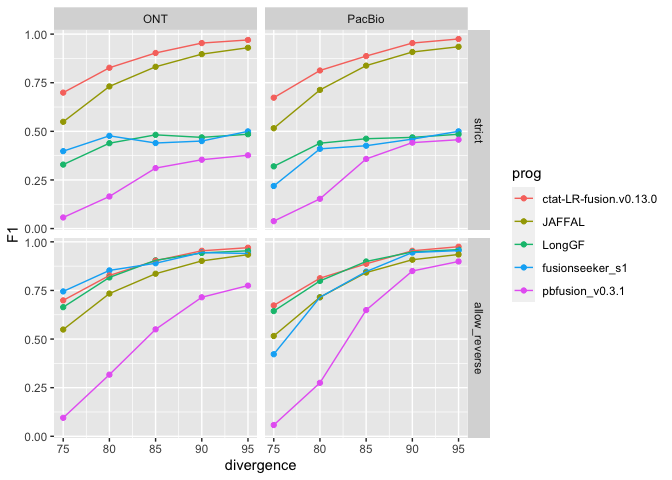
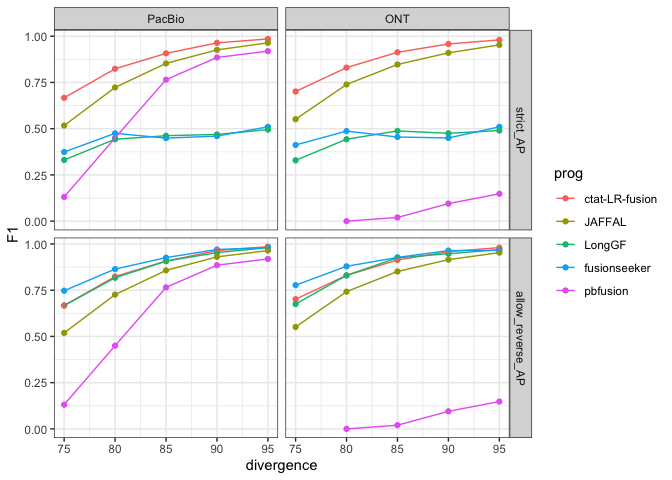
consistent coloring of progs

diff --git a/1.Benchmark_Simulated_Fusions/1a.jaffalpaper_simulated_reads/analyze_jaffal_simdata_accuracy.md b/1.Benchmark_Simulated_Fusions/1a.jaffalpaper_simulated_reads/analyze_jaffal_simdata_accuracy.md
@@ -10,6 +10,10 @@ Analysis was performed here:
 
 Results are analyzed below:
 
+``` r
+ordered_progs = c('ctat-LR-fusion', 'JAFFAL', 'LongGF', 'fusionseeker', 'pbfusion')
+```
+
 # Examine peak F1
 
 ``` r
@@ -27,13 +31,9 @@ ROC_data = bind_rows(ROC_strict_results,
                      ROC_allow_reverse_results)
 
 
-ROC_data = ROC_data %>% filter(prog %in% c(
-                                   'pbfusion',
-                                   'fusionseeker',
-                                   'LongGF',
-                                   'JAFFAL',
-                                   'ctat-LR-fusion')
-                       )
+ROC_data = ROC_data %>% filter(prog %in% ordered_progs)
+
+ROC_data$prog = factor(ROC_data$prog, levels=ordered_progs)
 
 
 # write supplementary data file
@@ -50,7 +50,7 @@ max_F1_data = ROC_data %>% group_by(analysisType, prog, seqtype, divergence) %>%
 
 ranked_progs = max_F1_data  %>% group_by(prog) %>% summarize(mean_F1 = mean(F1)) %>% arrange(desc(mean_F1))
 
-max_F1_data$prog = factor(max_F1_data$prog, levels=ranked_progs$prog)
+#max_F1_data$prog = factor(max_F1_data$prog, levels=ranked_progs$prog)
 
 max_F1_data$analysisType = factor(max_F1_data$analysisType, levels=c('strict_AP', 'allow_reverse_AP'))
 
@@ -72,7 +72,7 @@ p_F1_linepoint = max_F1_data %>%
 p_F1_linepoint
 ```
 
-![](analyze_jaffal_simdata_accuracy_files/figure-gfm/unnamed-chunk-2-1.png)<!-- -->
+![](analyze_jaffal_simdata_accuracy_files/figure-gfm/unnamed-chunk-3-1.png)<!-- -->
 
 ``` r
 ggsave(p_F1_linepoint, filename="jaffal_simdata_accuracy.F1.paperfig.svg", width=8, height=7)
@@ -95,7 +95,7 @@ ROC_data %>% filter(analysisType == "allow_reverse_AP") %>%
     ## Warning in geom_line(aes(groups = prog, color = prog)): Ignoring unknown
     ## aesthetics: groups
 
-![](analyze_jaffal_simdata_accuracy_files/figure-gfm/unnamed-chunk-4-1.png)<!-- -->
+![](analyze_jaffal_simdata_accuracy_files/figure-gfm/unnamed-chunk-5-1.png)<!-- -->
 
 ``` r
 max_F1_data %>% 
@@ -141,7 +141,7 @@ max_F1_data %>%
     facet_grid(vars(TP_or_FP), vars(seqtype))
 ```
 
-![](analyze_jaffal_simdata_accuracy_files/figure-gfm/unnamed-chunk-6-1.png)<!-- -->
+![](analyze_jaffal_simdata_accuracy_files/figure-gfm/unnamed-chunk-7-1.png)<!-- -->
 
 ``` r
 max_F1_data %>% 
@@ -156,10 +156,10 @@ max_F1_data %>%
     facet_wrap(~seqtype)
 ```
 
-![](analyze_jaffal_simdata_accuracy_files/figure-gfm/unnamed-chunk-7-1.png)<!-- -->
+![](analyze_jaffal_simdata_accuracy_files/figure-gfm/unnamed-chunk-8-1.png)<!-- -->
 
 ``` r
-max_F1_data %>% 
+TPR_or_FPR_plot = max_F1_data %>% 
     filter(analysisType == "allow_reverse_AP") %>%
     mutate(FPR = 1 - PPV) %>%
     select(seqtype, divergence, prog, TPR, FPR) %>% 
@@ -169,10 +169,16 @@ max_F1_data %>%
     ggplot(aes(x=divergence, y=fusion_count)) + theme_bw() +
     geom_point(aes(color=prog, shape=TPR_or_FPR), size=rel(3)) + 
     geom_line(aes(group=prog_TPR_or_FPR, color=prog)) +
-    facet_wrap(~seqtype)
+    facet_wrap(~seqtype) + ylab('TPR or FPR') + xlab("Fusion Reads % Identity")
+
+TPR_or_FPR_plot
 ```
 
-![](analyze_jaffal_simdata_accuracy_files/figure-gfm/unnamed-chunk-8-1.png)<!-- -->
+![](analyze_jaffal_simdata_accuracy_files/figure-gfm/unnamed-chunk-9-1.png)<!-- -->
+
+``` r
+ggsave(TPR_or_FPR_plot, filename="jaffal_simdata_accuracy.TPR_or_FPR_plot.paperfig.svg", width=8, height=4)
+```
 
 ``` r
 ROC_data %>% filter(analysisType == "allow_reverse_AP") %>% 
@@ -189,7 +195,7 @@ ROC_data %>% filter(analysisType == "allow_reverse_AP") %>%
     ## Warning in geom_line(aes(groups = prog, color = TP_or_FP)): Ignoring unknown
     ## aesthetics: groups
 
-![](analyze_jaffal_simdata_accuracy_files/figure-gfm/unnamed-chunk-9-1.png)<!-- -->
+![](analyze_jaffal_simdata_accuracy_files/figure-gfm/unnamed-chunk-11-1.png)<!-- -->
 
 Plot just the TPs
 
@@ -212,7 +218,7 @@ ROC_data %>% filter(analysisType == "allow_reverse_AP") %>%
     ## Warning in geom_line(aes(groups = prog), color = "#00BFC4"): Ignoring unknown
     ## aesthetics: groups
 
-![](analyze_jaffal_simdata_accuracy_files/figure-gfm/unnamed-chunk-10-1.png)<!-- -->
+![](analyze_jaffal_simdata_accuracy_files/figure-gfm/unnamed-chunk-12-1.png)<!-- -->
 
 ``` r
 ROC_data %>% filter(analysisType == "allow_reverse_AP") %>% 
@@ -233,7 +239,7 @@ ROC_data %>% filter(analysisType == "allow_reverse_AP") %>%
     ## Warning in geom_line(aes(groups = prog), color = "#F8766D"): Ignoring unknown
     ## aesthetics: groups
 
-![](analyze_jaffal_simdata_accuracy_files/figure-gfm/unnamed-chunk-11-1.png)<!-- -->
+![](analyze_jaffal_simdata_accuracy_files/figure-gfm/unnamed-chunk-13-1.png)<!-- -->
 
 ## Examine PR-AUC vs. divergence
 
@@ -252,13 +258,10 @@ PR_AUC_data = bind_rows(PR_AUC_strict_results,
                         PR_AUC_allow_reverse_results)
 
 
-PR_AUC_data = PR_AUC_data %>% filter(prog %in% c(
-                                   'pbfusion',
-                                   'fusionseeker',
-                                   'LongGF',
-                                   'JAFFAL',
-                                   'ctat-LR-fusion')
-                       )
+PR_AUC_data = PR_AUC_data %>% filter(prog %in% ordered_progs)
+
+PR_AUC_data$prog = factor(PR_AUC_data$prog, levels=ordered_progs)
+
 
 PR_AUC_data %>% head()
 ```
@@ -276,7 +279,7 @@ PR_AUC_data %>% head()
 
 ranked_progs = PR_AUC_data  %>% group_by(prog) %>% summarize(mean_AUC = mean(AUC)) %>% arrange(desc(mean_AUC))
 
-PR_AUC_data$prog = factor(PR_AUC_data$prog, levels=ranked_progs$prog)
+#PR_AUC_data$prog = factor(PR_AUC_data$prog, levels=ranked_progs$prog)
 
 PR_AUC_data$analysisType = factor(PR_AUC_data$analysisType, levels=c('strict_AP', 'allow_reverse_AP'))
 
@@ -298,7 +301,7 @@ p_AUC_linepoint = PR_AUC_data %>%
 p_AUC_linepoint
 ```
 
-![](analyze_jaffal_simdata_accuracy_files/figure-gfm/unnamed-chunk-14-1.png)<!-- -->
+![](analyze_jaffal_simdata_accuracy_files/figure-gfm/unnamed-chunk-16-1.png)<!-- -->
 
 ``` r
 ggsave(p_AUC_linepoint, filename="jaffal_simdata_accuracy.PR_AUC.paperfig.svg", width=8, height=7)

diff --git a/1.Benchmark_Simulated_Fusions/1b.pbsim3_simulated_reads/simulated_reads_summary.md b/1.Benchmark_Simulated_Fusions/1b.pbsim3_simulated_reads/simulated_reads_summary.md
@@ -9,6 +9,10 @@ chemistry simulated reads (via pbsim3).
 See the subdirectories for the individual analyses:
 1b.1.PacBio_simulations and 1b.2.ONT_simulations
 
+``` r
+prog_ordering = c('ctat-LR-fusion', 'JAFFAL', 'LongGF', 'fusionseeker', 'pbfusion')
+```
+
 # Examine peak F1 score
 
 ``` r
@@ -16,6 +20,7 @@ pacbio_F1_summary_data = read.table("1b.1.PacBio_simulations/PacBio_sim.mean_F1.
 
 pacbio_F1_summary_data = pacbio_F1_summary_data %>% mutate(seqTech = "PacBio")
 
+pacbio_F1_summary_data$prog = factor(pacbio_F1_summary_data$prog, levels=prog_ordering)
 
 pacbio_F1_summary_data %>% head()
 ```
@@ -92,7 +97,7 @@ combined_F1_data %>%
      theme(axis.text.x = element_text(angle = 90, hjust = 1)) 
 ```
 
-![](simulated_reads_summary_files/figure-gfm/unnamed-chunk-5-1.png)<!-- -->
+![](simulated_reads_summary_files/figure-gfm/unnamed-chunk-6-1.png)<!-- -->
 
 ``` r
 combined_F1_paperfig = combined_F1_data %>%
@@ -109,7 +114,7 @@ combined_F1_paperfig = combined_F1_data %>%
 combined_F1_paperfig
 ```
 
-![](simulated_reads_summary_files/figure-gfm/unnamed-chunk-6-1.png)<!-- -->
+![](simulated_reads_summary_files/figure-gfm/unnamed-chunk-7-1.png)<!-- -->
 
 ``` r
 ggsave(combined_F1_paperfig, filename="pbsim3_bmark.F1.paperfig.svg", width=8, height=5)
@@ -180,11 +185,7 @@ combined_PR_AUC_data %>% head()
     ## 6  PacBio
 
 ``` r
-combined_PR_AUC_data$prog = factor(combined_PR_AUC_data$prog, levels = c('ctat-LR-fusion',
-                                                           'JAFFAL',
-                                                           'LongGF',
-                                                           'fusionseeker',
-                                                           'pbfusion') )
+combined_PR_AUC_data$prog = factor(combined_PR_AUC_data$prog, levels = prog_ordering )
 ```
 
 ``` r
@@ -198,7 +199,7 @@ combined_PR_AUC_data %>%
      theme(axis.text.x = element_text(angle = 90, hjust = 1)) 
 ```
 
-![](simulated_reads_summary_files/figure-gfm/unnamed-chunk-12-1.png)<!-- -->
+![](simulated_reads_summary_files/figure-gfm/unnamed-chunk-13-1.png)<!-- -->
 
 ``` r
 combined_PR_AUC_paperfig = combined_PR_AUC_data %>%
@@ -215,7 +216,7 @@ combined_PR_AUC_paperfig = combined_PR_AUC_data %>%
 combined_PR_AUC_paperfig
 ```
 
-![](simulated_reads_summary_files/figure-gfm/unnamed-chunk-13-1.png)<!-- -->
+![](simulated_reads_summary_files/figure-gfm/unnamed-chunk-14-1.png)<!-- -->
 
 ``` r
 ggsave(combined_PR_AUC_paperfig, filename="pbsim3_bmark.AUC.paperfig.svg", width=8, height=5)
